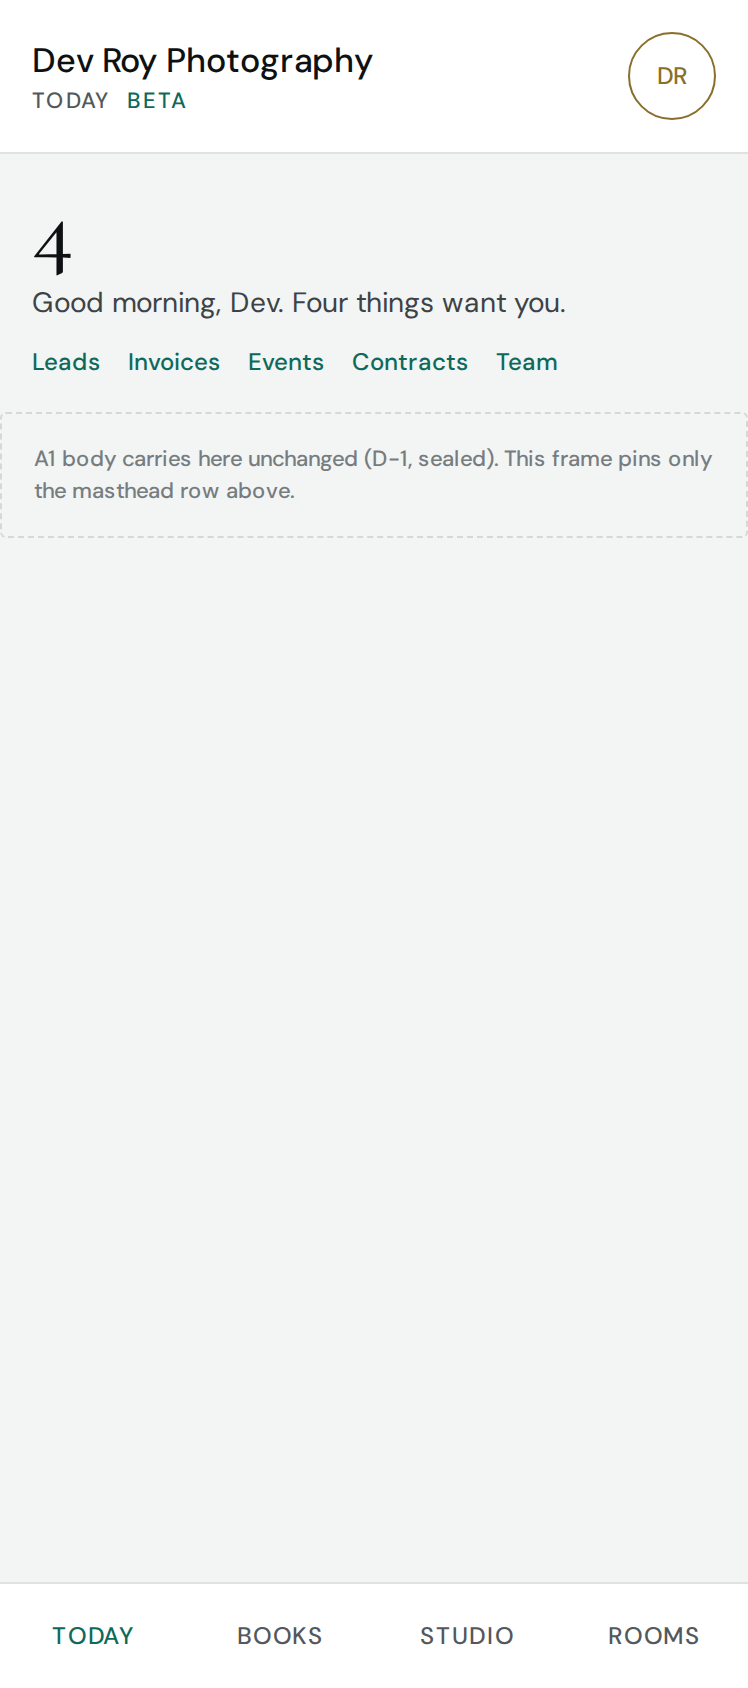
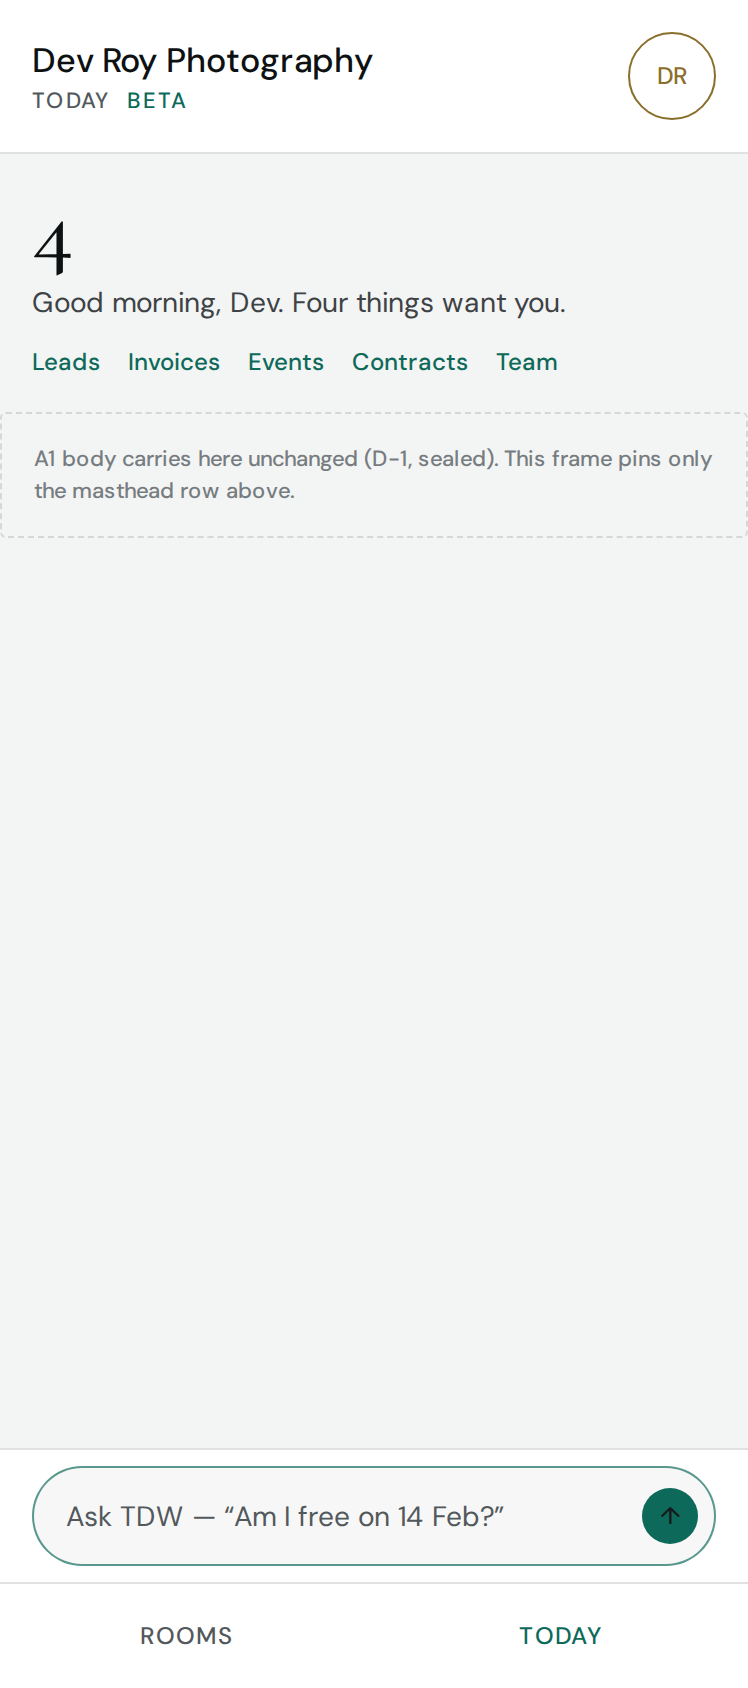
P7.2: the dock correction — the mock's frames drew a four-seat dock the shell does not have; re-shot with the derived chrome, capture now asserts the shape [c-P72.12]

diff --git a/docs/mocks/flip-beta-mock.html b/docs/mocks/flip-beta-mock.html
@@ -35,6 +35,10 @@ body.solo .wl,body.solo .ld{box-shadow:none;border-radius:0}
 .wl-coin{background:transparent;border:1px solid var(--role-metal);border-radius:50%;color:var(--role-metal);font:var(--wl-t4);line-height:1;width:44px;height:44px;min-width:44px;display:flex;align-items:center;justify-content:center}
 .wl-main{flex:1;display:flex;flex-direction:column;min-height:0;overflow-y:auto}
 .wl-main > *{padding-left:var(--wl-gutter);padding-right:var(--wl-gutter)}
+.wl-dock{flex-shrink:0;padding:8px var(--wl-gutter);background:var(--atelier-header-bg);border-top:.5px solid var(--atelier-card-border)}
+.wl-dockfield{display:flex;align-items:center;gap:8px;width:100%;min-height:44px;background:var(--atelier-input-bg);border:.5px solid var(--atelier-input-border);border-radius:999px;padding:10px 8px 10px 16px}
+.wl-dockph{flex:1;font:var(--wl-t3);color:var(--atelier-ink-mute);white-space:nowrap;overflow:hidden;text-overflow:ellipsis}
+.wl-docksend{width:28px;height:28px;flex-shrink:0;border-radius:50%;background:var(--atelier-accent-text);color:var(--role-ink-deep);display:flex;align-items:center;justify-content:center;font:var(--wl-t4)}
 .wl-nav{display:flex;flex-shrink:0;border-top:.5px solid var(--atelier-card-border);background:var(--atelier-header-bg)}
 .wl-seat{flex:1;min-height:52px;display:flex;align-items:center;justify-content:center;font:var(--wl-t4);letter-spacing:.08em;text-transform:uppercase;color:var(--atelier-ink-mute)}
 .wl-seat.on{color:var(--atelier-accent-text)}
@@ -162,8 +166,8 @@ body.solo .wl,body.solo .ld{box-shadow:none;border-radius:0}
   <div class="wl-kind"><span>Leads</span><span>Invoices</span><span>Events</span><span>Contracts</span><span>Team</span></div>
   <div class="wl-ghost">A1 body carries here unchanged (D-1, sealed). This frame pins only the masthead row above.</div>
  </div>
- <div class="wl-nav"><div class="wl-seat on">Today</div><div class="wl-seat">Books</div><div class="wl-seat">Studio</div><div class="wl-seat">Rooms</div></div>
-</div>
+ <div class="wl-dock"><div class="wl-dockfield"><span class="wl-dockph">Ask TDW &mdash; &ldquo;Am I free on 14 Feb?&rdquo;</span><span class="wl-docksend">&uarr;</span></div></div>
+ <div class="wl-nav"><div class="wl-seat">Rooms</div><div class="wl-seat on">Today</div></div></div>
 </div>
 
 <div class="framewrap" data-frame="P7-report">
@@ -177,8 +181,8 @@ body.solo .wl,body.solo .ld{box-shadow:none;border-radius:0}
   <div class="wl-mnum">4</div>
   <div class="wl-greet">Good morning, Dev. Four things want you.</div>
  </div>
- <div class="wl-nav"><div class="wl-seat on">Today</div><div class="wl-seat">Books</div><div class="wl-seat">Studio</div><div class="wl-seat">Rooms</div></div>
- <div class="wl-drawerscrim"></div>
+ <div class="wl-dock"><div class="wl-dockfield"><span class="wl-dockph">Ask TDW &mdash; &ldquo;Am I free on 14 Feb?&rdquo;</span><span class="wl-docksend">&uarr;</span></div></div>
+ <div class="wl-nav"><div class="wl-seat">Rooms</div><div class="wl-seat on">Today</div></div> <div class="wl-drawerscrim"></div>
  <div class="wl-drawer">
   <div class="wl-dsec">Account</div>
   <div class="wl-drow"><span class="wl-dlabel">Settings</span></div>
@@ -226,7 +230,8 @@ body.solo .wl,body.solo .ld{box-shadow:none;border-radius:0}
   <div class="sf-item"><span class="sf-gl">▣</span><div style="flex:1"><div class="sf-il">Portfolio</div><div class="sf-id">images and photo library</div></div><span class="sf-chev">›</span></div>
   <div class="sf-item"><span class="sf-gl">◈</span><div style="flex:1"><div class="sf-il">Discover</div><div class="sf-id">your profile on The Dream Wedding</div></div><span class="sf-chev">›</span></div>
  </div>
- <div class="wl-nav"><div class="wl-seat">Today</div><div class="wl-seat">Books</div><div class="wl-seat on">Studio</div><div class="wl-seat">Rooms</div></div>
+ <div class="wl-dock"><div class="wl-dockfield"><span class="wl-dockph">Ask TDW &mdash; &ldquo;Am I free on 14 Feb?&rdquo;</span><span class="wl-docksend">&uarr;</span></div></div>
+ <div class="wl-nav"><div class="wl-seat">Rooms</div><div class="wl-seat">Today</div></div>
 </div>
 </div>
 

diff --git a/docs/mocks/P71_VETO_SHEET.md b/docs/mocks/P71_VETO_SHEET.md
@@ -118,3 +118,22 @@ says it and two homes for one number is F-07.15's disease. No count in the label
 **Open question for the founder, not ruled here:** if S19 ships, the same argument applies to the
 Discover row on this screen — it is also an ask, not just a door. This frame deliberately changes
 ONE row so the contrast is visible; a second call on the same screen would flatten it again.
+
+
+### Correction — the dock, c-P72.12 (2026-09-04)
+
+The founder caught a **drawing error** in this frame's bottom chrome: it showed a four-seat dock
+(Today · Books · Studio · Rooms). The shell's dock is **Rooms · Today**, two seats, above the ask
+field (`WorklistShell.tsx:185–188`, `AiDock.tsx`; C23 owns the dock's shape). Nothing in Phase 7
+touches it and nothing was built from the wrong drawing.
+
+**The error was not confined to the new frame.** `P7-badge` and `P7-report` — two of P7.1's FOUR
+RATIFIED frames — carried the same false dock, and it went through the veto pass unremarked.
+All three frames are re-shot here with the derived chrome (the `.wl-dock` ask field and the two
+seats, CSS carried byte-for-byte from `AiDock.tsx`), and the capture now asserts the shape:
+every frame is checked for `seats == ['Rooms','Today']` and a present dock field before the shot
+is written. **S1–S19 are unaffected** — no string moved; the badge sits where it sat, the Report
+sheet is unchanged, the bio call is unchanged above the fold.
+
+Recorded as **c-P72.12**: a mock is a claim about a surface, and a frame that draws chrome the
+surface does not have is a lie the veto pass cannot catch by reading strings alone.
